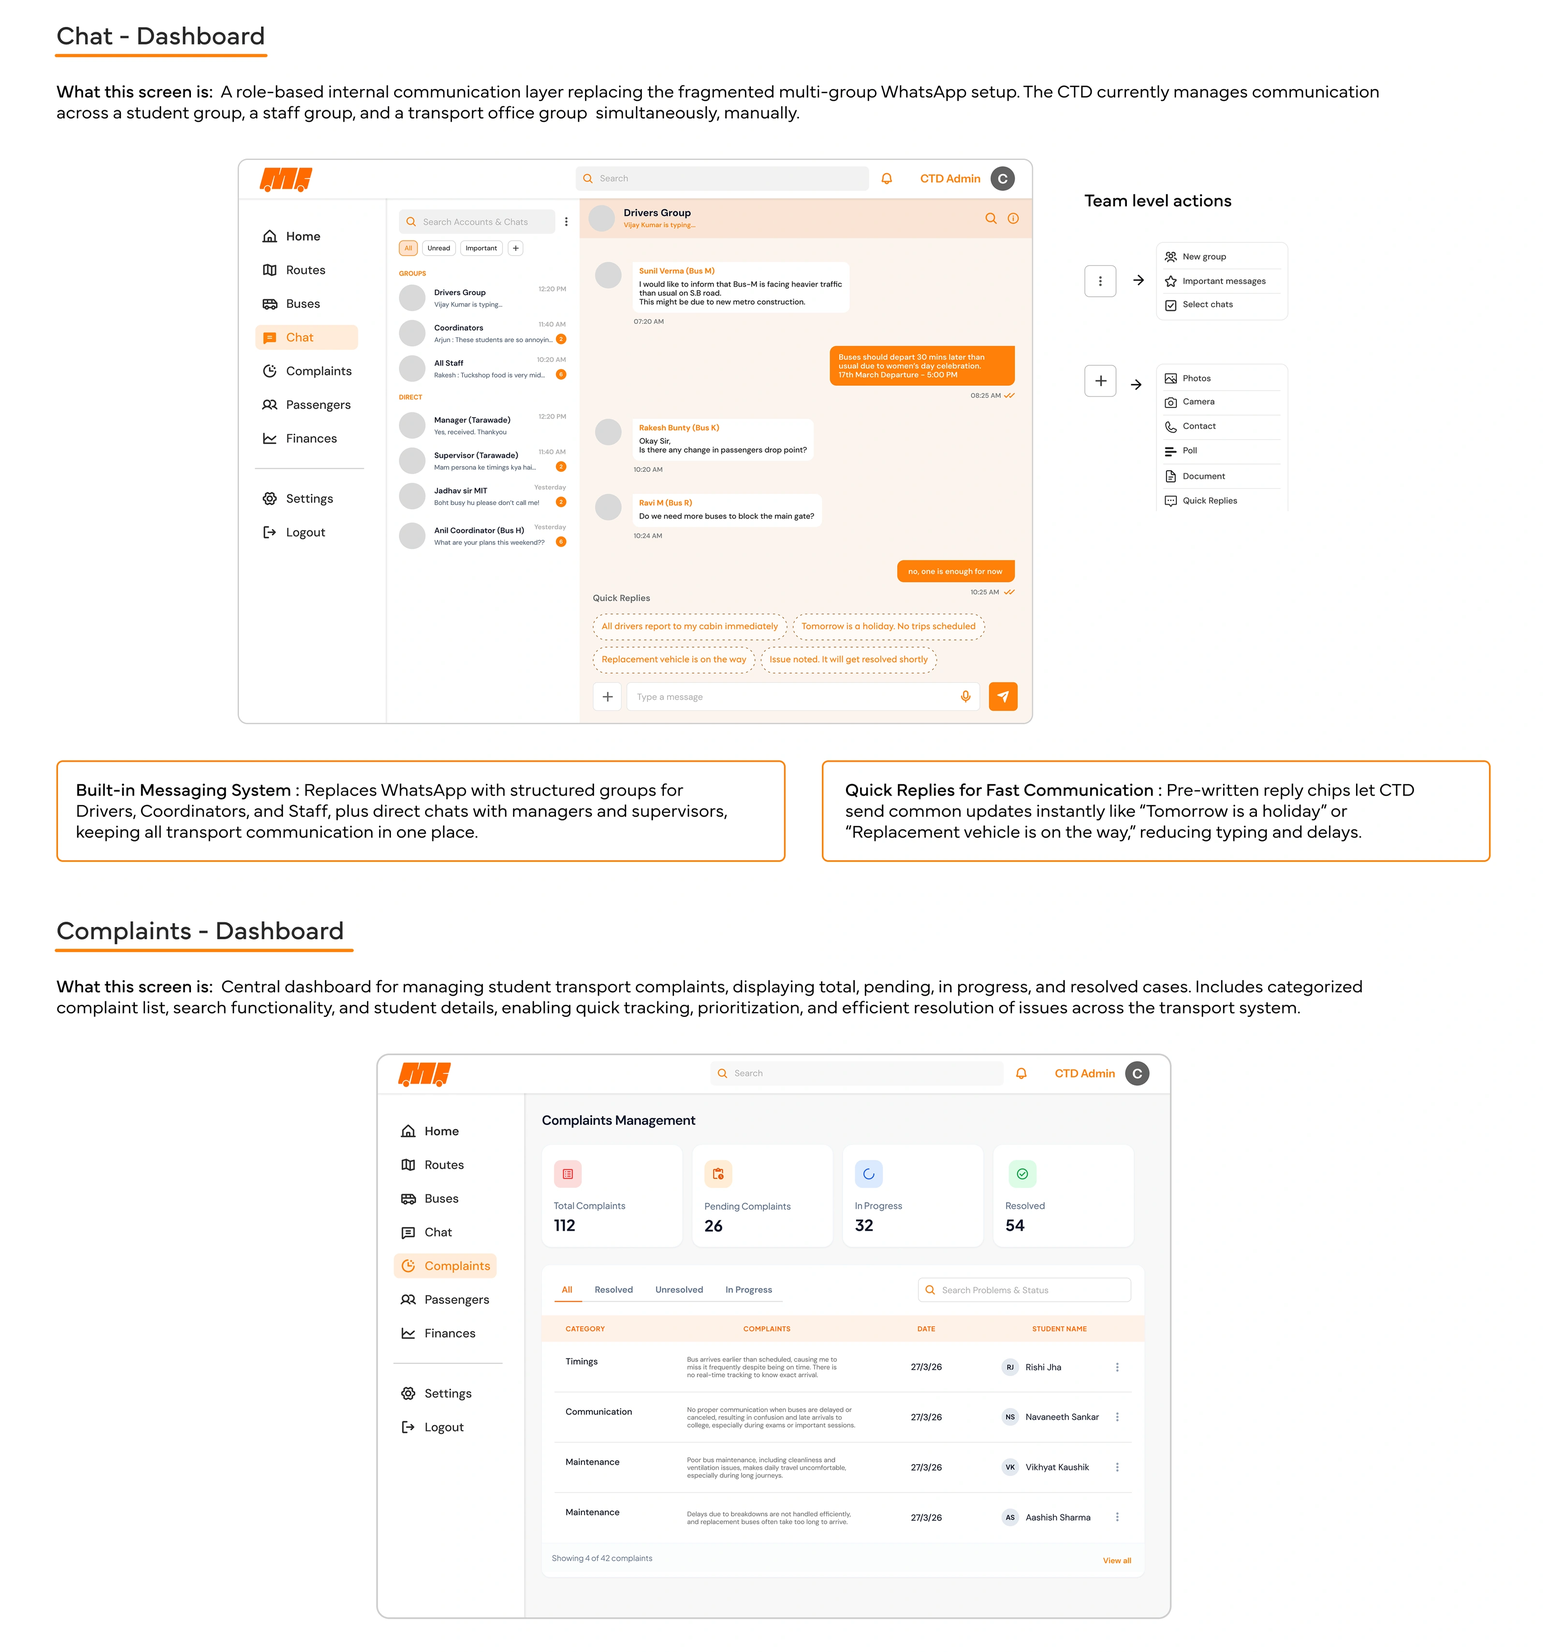
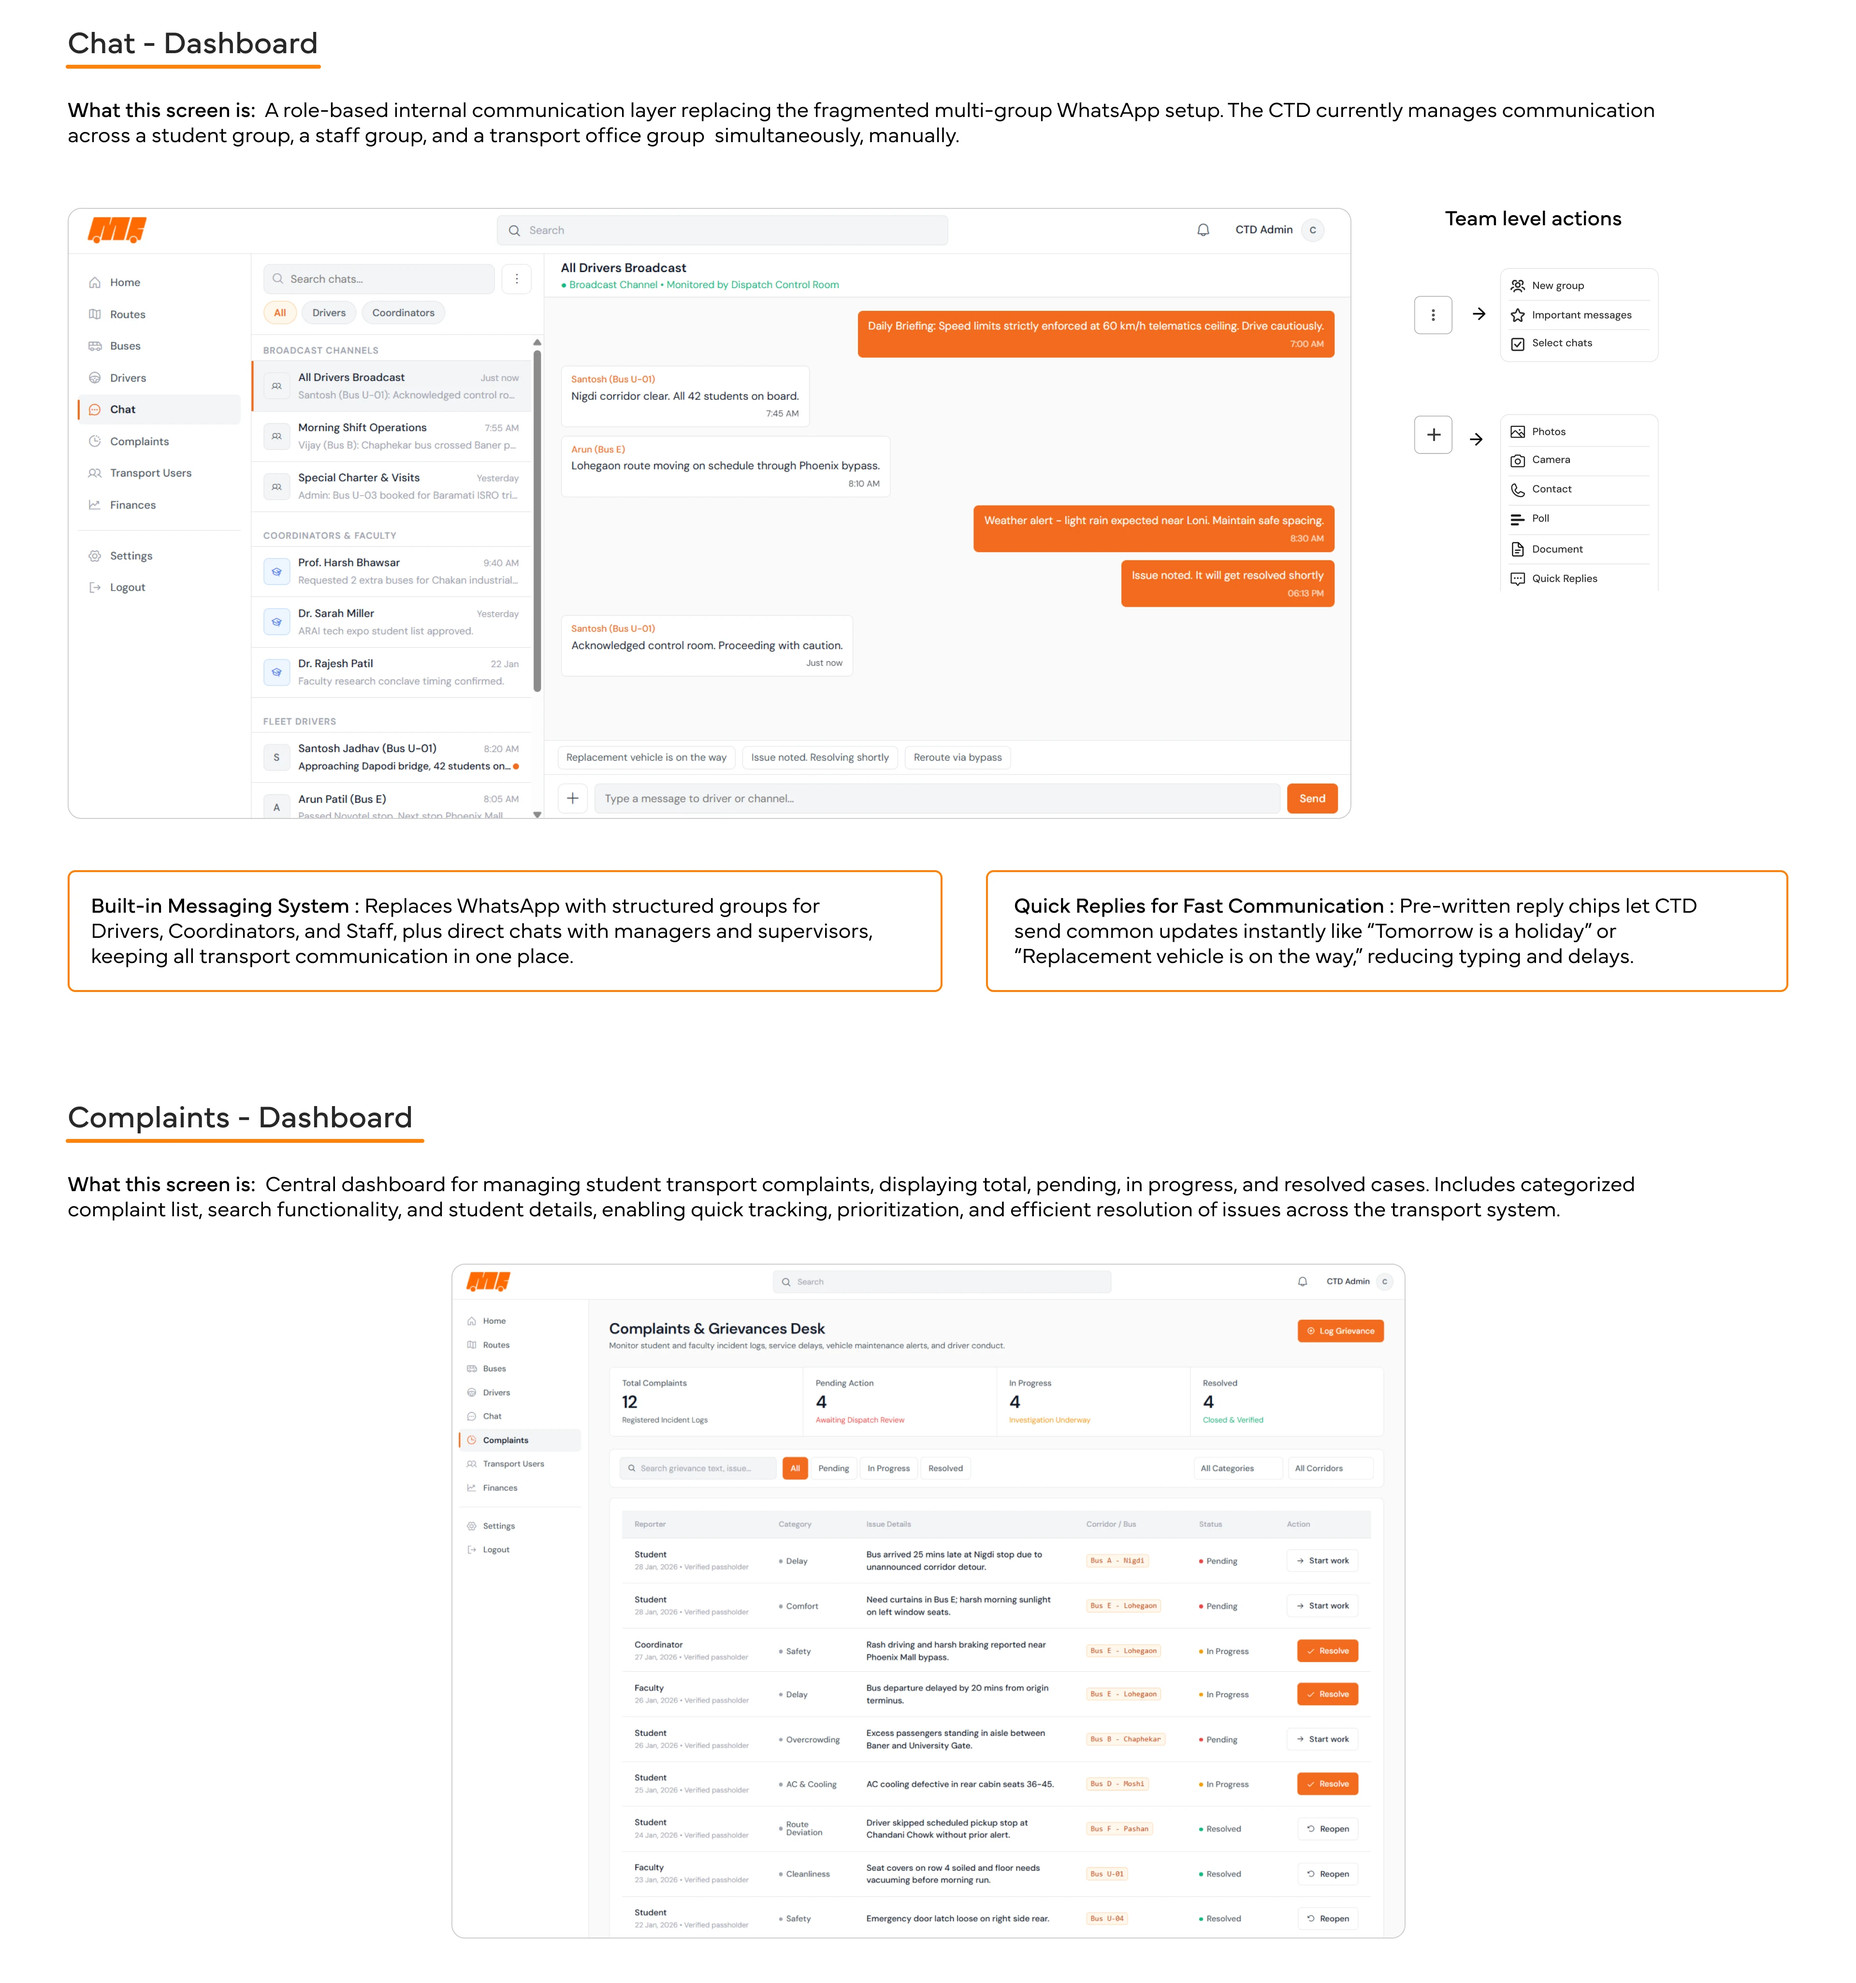
feat(transportation): update overview, slide 5, and slide 6 with new webp designs

diff --git a/transportation.html b/transportation.html
@@ -187,7 +187,7 @@
         <div class="case-study-slides-flow">
           <!-- Slide 01: Overview -->
           <div class="slide-section" id="overview" data-topic="overview">
-            <img src="Bus Transportation management/1OVERVIEW.webp" alt="Bus Transportation Management - Overview" class="topic-image" loading="eager">
+            <img src="Bus Transportation management/1OVERVIEW.webp?v=2" alt="Bus Transportation Management - Overview" class="topic-image" loading="eager">
           </div>
 
           <!-- Slide 02: Secondary Research -->
@@ -238,13 +238,13 @@
           <div class="slide-section" id="dashboard-ui" data-topic="dashboard-ui">
             <img src="Bus Transportation management/BTM%20Slide3.webp?v=2" alt="Dashboard UI - Home &amp; Routes" class="topic-image" loading="lazy">
             <img src="Bus Transportation management/BTM%20Slide4.webp?v=2" alt="Dashboard UI - Buses" class="topic-image" loading="lazy">
-            <img src="Bus Transportation management/BTM%20Slide5.webp" alt="Dashboard UI - Chat &amp; Complaints" class="topic-image" loading="lazy">
-            <img src="Bus Transportation management/BTM%20Slide6_dashboard.webp" alt="Dashboard UI - Passengers" class="topic-image" loading="lazy">
+            <img src="Bus Transportation management/BTM%20Slide5.webp?v=2" alt="Dashboard UI - Chat &amp; Complaints" class="topic-image" loading="lazy">
+            <img src="Bus Transportation management/BTM%20Slide6_dashboard.webp?v=2" alt="Dashboard UI - Transport Users &amp; Finances" class="topic-image" loading="lazy">
           </div>
 
           <!-- Slide 09: Phone UI (BTM Slide 6 starting at Phone UI heading, BTM Slide 7) -->
           <div class="slide-section" id="phone-ui" data-topic="phone-ui">
-            <img src="Bus Transportation management/BTM%20Slide6_phone.webp" alt="Phone UI - Mobile Screens &amp; Homepage" class="topic-image" loading="lazy">
+            <img src="Bus Transportation management/BTM%20Slide6_phone.webp?v=2" alt="Phone UI - Mobile Screens &amp; Homepage" class="topic-image" loading="lazy">
             <img src="Bus Transportation management/BTM%20Slide7.webp" alt="Phone UI - My Bus, Chat &amp; Profile" class="topic-image" loading="lazy">
           </div>
 
